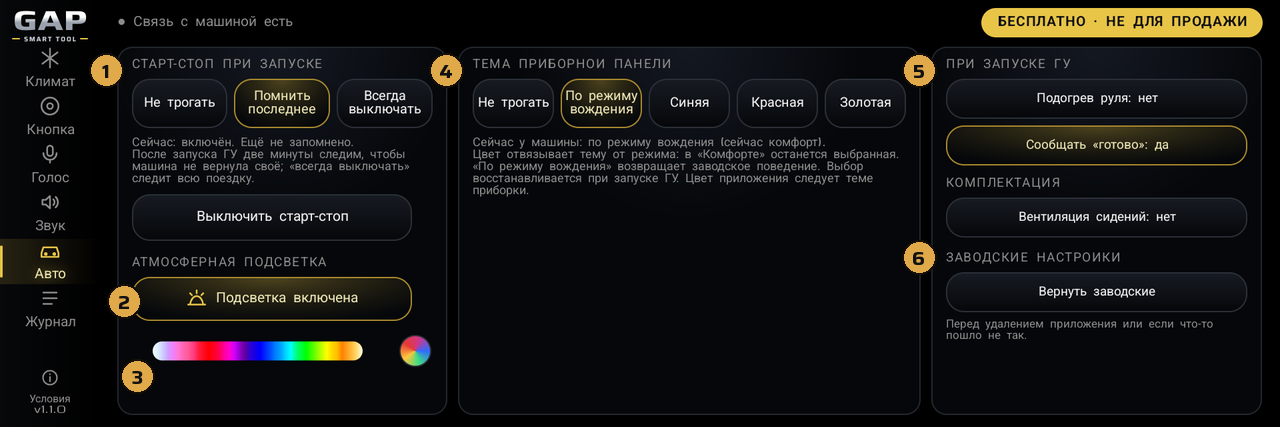
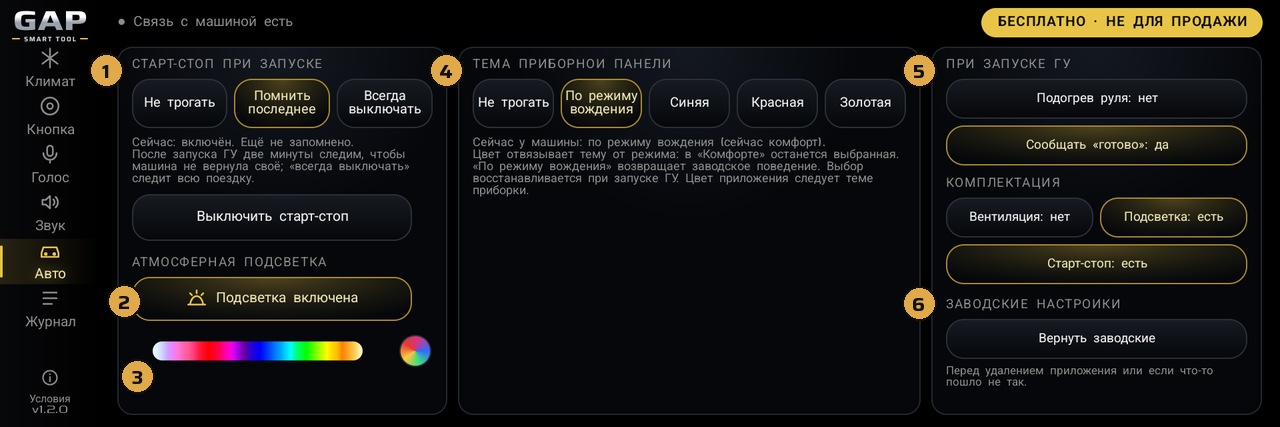
GAP Smart Tool 1.2.0
Флешка удаления сама возвращает заводские настройки. Подсветку и старт-стоп можно отключить в комплектации.

Changed region(s): [[0.6875, 0.4567, 0.9688, 0.822], [0.7188, 0.8525, 0.9375, 0.9133], [0.0312, 0.9438, 0.0625, 0.9742]]

diff --git a/README.md b/README.md
@@ -6,7 +6,8 @@
 
 > **Это приложение, а не прошивка.** Оно ставится поверх штатной прошивки ГУ, как приложение на телефон, и ничего
 > в ней не меняет: прошивка остаётся та же, все штатные функции работают как раньше. Удаляется флешкой — и на ГУ от
-> него ничего не остаётся (настройки машины, которые оно меняло, перед этим возвращает кнопка «Вернуть заводские»).
+> него ничего не остаётся. Настройки машины, которые оно меняло, перед удалением возвращает кнопка «Вернуть
+> заводские», а с версии 1.2.0 это пробует сделать и сама флешка, если машина ответила — итог в отчёте на флешке.
 
 > **Все риски — на том, кто устанавливает.** Приложение неофициальное: оно не связано с Geely и производителем
 > головного устройства и ими не проверялось. Ставя его, вы сами отвечаете за последствия — для головного
@@ -40,11 +41,13 @@
 - **Экран климата** — температура водителя и пассажира, AUTO, A/C, рециркуляция, MAX, обдув лобового, обогрев
   заднего стекла и зеркал, климат вкл/выкл, скорость и направление обдува, подогрев руля и сидений.
 - **Атмосферная подсветка** — включение и палитра из 42 цветов, как в штатных настройках, плюс «по режиму вождения».
+  В базовой комплектации подсветки нет — тогда отключите её в «Авто» → «Комплектация».
 - **Тема приборной панели** — отвязать от режима вождения и выбрать цвет; «по режиму» возвращает заводское поведение.
 - **Старт-стоп** — «не трогать», «помнить последнее» или «всегда выключать».
+  В базовой комплектации старт-стопа нет — тогда отключите его в «Авто» → «Комплектация».
 - **При запуске ГУ** — включить подогрев руля, сообщить «готово».
 - **Вернуть заводские** — тема приборки «по режиму вождения», тонкомпенсация выключена, звук и старт-стоп как
-  с завода: одной кнопкой перед удалением приложения.
+  с завода: одной кнопкой. С версии 1.2.0 флешка удаления пробует сделать это и сама перед удалением.
 
 ### Пустая кнопка руля
 Короткое, двойное нажатие и удержание — на каждое своё действие: подогрев руля, подогрев сидений по кругу,
@@ -101,9 +104,11 @@
 следующем вопросе. Прошивка всё время остаётся штатной, а после удаления на ГУ от приложения ничего не остаётся.
 
 **Как всё вернуть?**
-1. В приложении «Авто» → **«Вернуть заводские»**: тема приборки, тонкомпенсация, звук и старт-стоп — как с завода.
-2. Флешка удаления **`GapSmartTool-remove.zip`** — приложение удалится с ГУ вместе со своими файлами
-   ([INSTALL.md](INSTALL.md#как-удалить)).
+Флешка удаления **`GapSmartTool-remove.zip`** ([INSTALL.md](INSTALL.md#как-удалить)) удаляет приложение вместе с его
+файлами, а с версии 1.2.0 перед этим пробует сама вернуть заводские настройки машины — тему приборки,
+тонкомпенсацию, звук и старт-стоп; получилось ли, написано в отчёте на флешке (без связи с машиной не получится).
+Надёжнее всего перед удалением нажать в приложении «Авто» → **«Вернуть заводские»** — в версии 1.1.0 только так.
+Этой же кнопкой можно вернуть настройки и без удаления.
 
 Сброс к заводским в настройках ГУ приложение **не удаляет**: он стирает настройки всех приложений (и наши тоже),
 после чего GAP Smart Tool не работает, пока снова не примут условия. Но вместе с этим стираются настройки и других

diff --git a/INSTALL.md b/INSTALL.md
@@ -95,11 +95,16 @@
 журнал на флешку»**. При установке флешка и сама забирает журнал в папку `gaptool_…`.
 
 ## Как удалить
-Сначала верните заводские настройки: в приложении **«Авто»** → **«Вернуть заводские»** → **«Вернуть»**. Тема
+Надёжнее всего перед удалением нажать в приложении **«Авто»** → **«Вернуть заводские»** → **«Вернуть»**: тема
 приборной панели снова будет «по режиму вождения», тонкомпенсация усилителя выключится. Это настройки машины —
 после удаления приложения их уже некому вернуть.
 
+Если в машине стоит GAP Smart Tool **1.2.0 или новее**, флешка удаления тоже пробует вернуть их сама перед
+удалением. Получилось ли, написано в отчёте на флешке; если машина не ответила, настройки останутся как были.
+Версия 1.1.0 так не умеет (версия — внизу меню приложения).
+
 1. Скачайте из того же релиза **`GapSmartTool-remove.zip`**.
 2. Подготовьте флешку так же: FAT32, на неё — содержимое архива (папка с длинным названием и `done.sh`).
-3. Вставьте флешку первой после включения экрана машины. Через минуту откроются обычные настройки ГУ — приложение
-   удалено, флешку можно вынимать. На флешке появится папка `gaptool_removed_…` с журналом и отчётом об удалении.
+3. Вставьте флешку первой после включения экрана машины. Через 1–2 минуты откроются обычные настройки ГУ —
+   приложение удалено, флешку можно вынимать. На флешке появится папка `gaptool_removed_…` с журналом и отчётом
+   об удалении.

diff --git a/GUIDE.md b/GUIDE.md
@@ -156,10 +156,13 @@
 4. **Тема приборной панели** — синяя, красная, золотая или «по режиму вождения» (как с завода). Цвет приложения
    следует теме, а при «по режиму вождения» — режиму: комфорт — золотой, эко — синий, спорт — красный.
 5. **При запуске ГУ** — **«Подогрев руля»**: включать ли его при каждом запуске; **«Сообщать «готово»»** — сказать,
-   когда приложение запустилось.
+   когда приложение запустилось. **Комплектация** — есть ли в машине вентиляция сидений, атмосферная подсветка и
+   старт-стоп (в базовой комплектации подсветки и старт-стопа нет). Чего нет, то приложение прячет и не включает:
+   ни с экрана, ни кнопкой руля, ни голосом.
 6. **Заводские настройки** — **«Вернуть заводские»**: тема приборки — «по режиму вождения», тонкомпенсация
    усилителя — выключить, звук — «как штатно», старт-стоп — «не трогать». Подсветка остаётся как есть. Нажмите
-   перед удалением приложения или если что-то пошло не так; без связи с машиной ничего не меняется.
+   перед удалением приложения или если что-то пошло не так; без связи с машиной ничего не меняется. С версии
+   1.2.0 флешка удаления пробует сделать это и сама.
 
 ---
 
